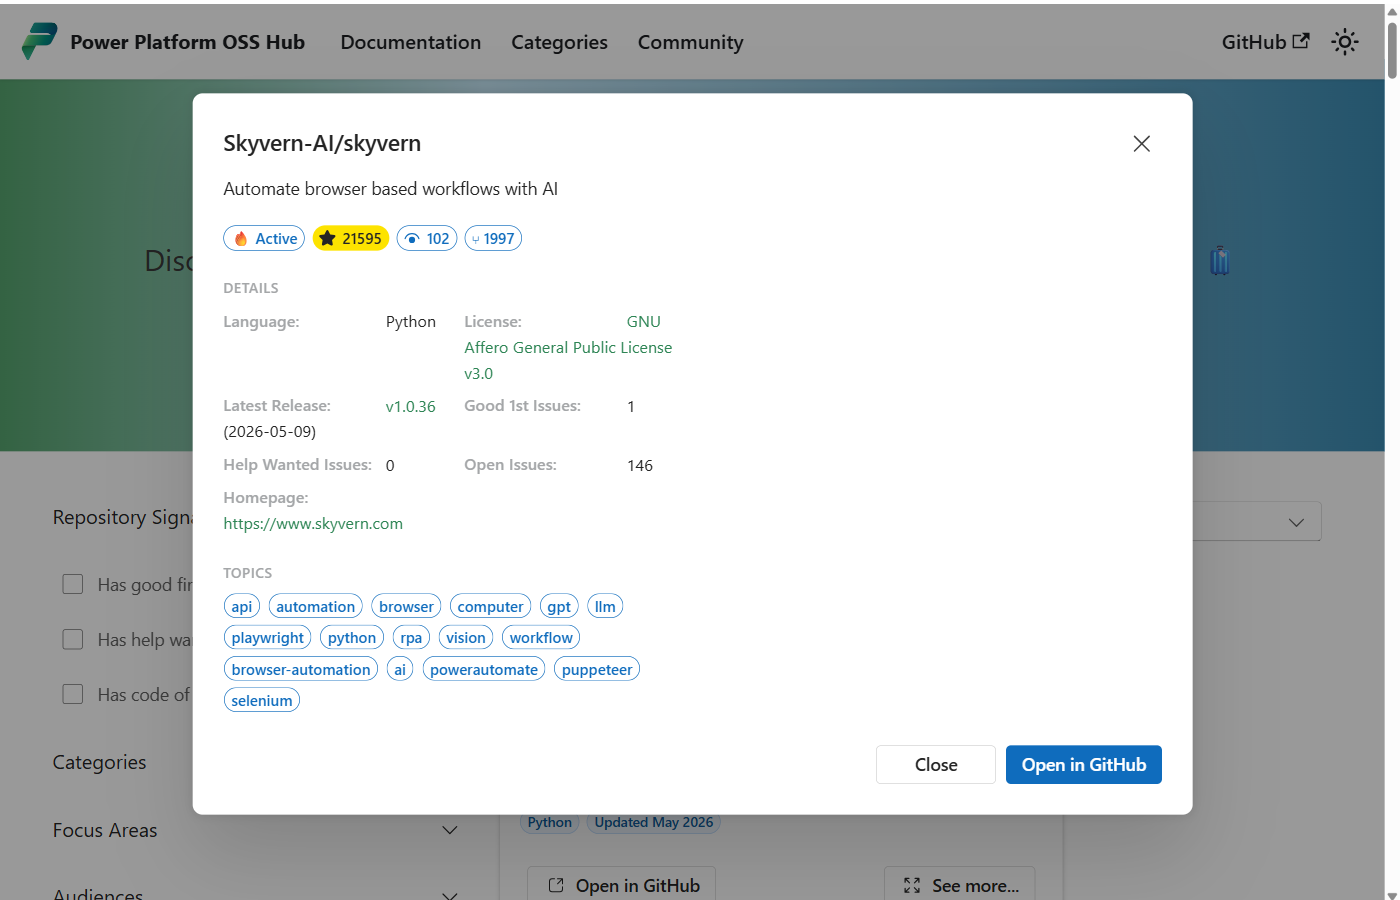
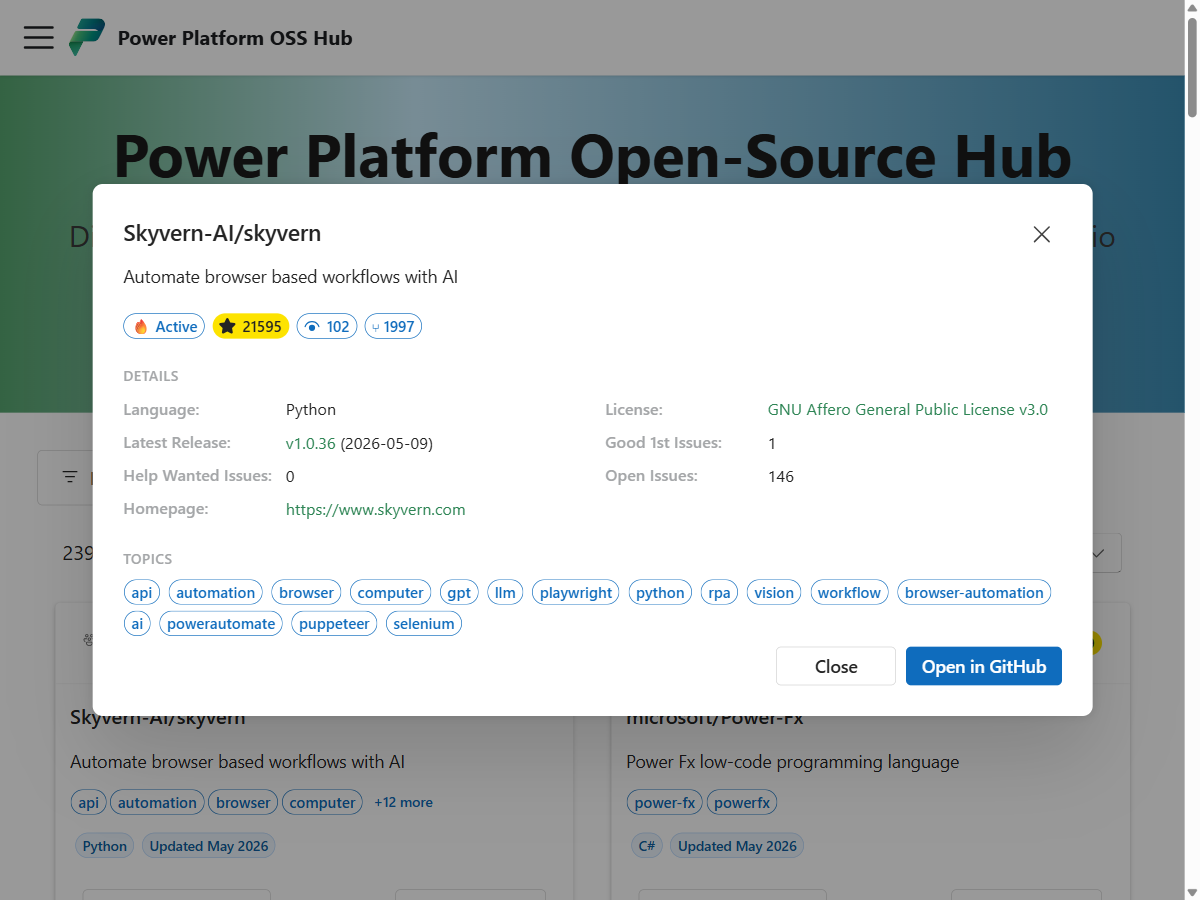
fix: use full dialog width by correcting Fluent UI v9 nesting
Move DialogContent and DialogActions inside DialogBody (correct
Fluent UI v9 structure) instead of wrapping DialogBody in
DialogContent. This allows DialogContent to stretch full-width
as a flex item inside DialogBody.

Also update dialogDetailsTwoCol to use minmax(0, 1fr) columns
to prevent grid cell overflow with long text.

Update screenshot to show correct full-width layout.

diff --git a/Website/src/components/Gallery/index.tsx b/Website/src/components/Gallery/index.tsx
@@ -491,9 +491,9 @@ const Gallery = ({
                             />
                         </DialogTrigger>
                     </DialogTitle>
-                    <DialogContent style={{ marginBottom: '16px', marginTop: '8px', width: '100%' }}>
-                        <DialogBody>
-                            <div style={{ display: 'flex', flexDirection: 'column', gap: '10px', width: '100%' }}>
+                    <DialogBody>
+                        <DialogContent>
+                            <div style={{ display: 'flex', flexDirection: 'column', gap: '10px' }}>
                                 {/* Row 1: Description */}
                                 <Text data-testid="dialog-description" style={{ display: 'block' }}>
                                     {getRepositoryDescription(selectedItem)}
@@ -600,12 +600,12 @@ const Gallery = ({
                                     </div>
                                 )}
                             </div>
-                        </DialogBody>
-                    </DialogContent>
-                    <DialogActions>
-                        <Button data-testid="dialog-close-button" appearance="secondary" onClick={closeDialog}>Close</Button>
-                        <Button data-testid="dialog-open-in-github-button" data-repository-url={selectedItem?.url} appearance="primary" onClick={() => openInGitHub(selectedItem?.url)}>Open in GitHub</Button>
-                    </DialogActions>
+                        </DialogContent>
+                        <DialogActions>
+                            <Button data-testid="dialog-close-button" appearance="secondary" onClick={closeDialog}>Close</Button>
+                            <Button data-testid="dialog-open-in-github-button" data-repository-url={selectedItem?.url} appearance="primary" onClick={() => openInGitHub(selectedItem?.url)}>Open in GitHub</Button>
+                        </DialogActions>
+                    </DialogBody>
                 </DialogSurface>
             </Dialog>
         </div>

diff --git a/Website/src/components/Gallery/styles.module.css b/Website/src/components/Gallery/styles.module.css
@@ -153,10 +153,9 @@
 }
 .dialogDetailsTwoCol {
     display: grid;
-    grid-template-columns: 1fr 1fr;
+    grid-template-columns: minmax(0, 1fr) minmax(0, 1fr);
     gap: 6px 20px;
     margin-top: 4px;
-    width: 100%;
 }
 @media (max-width: 500px) {
     .dialogDetailsTwoCol {